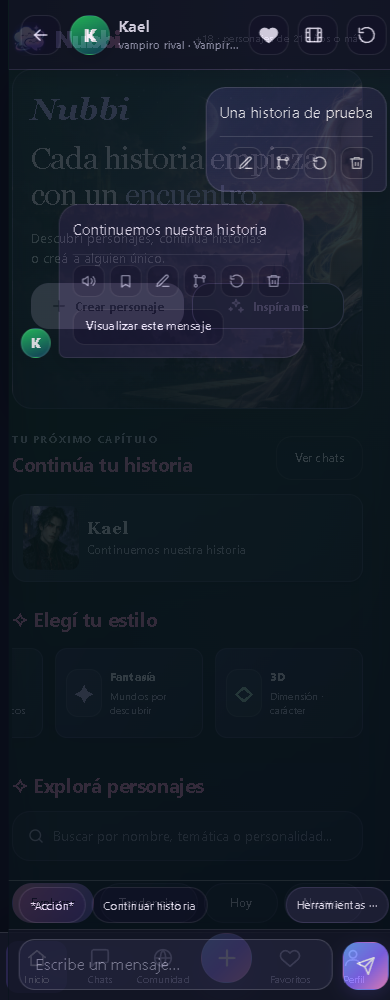
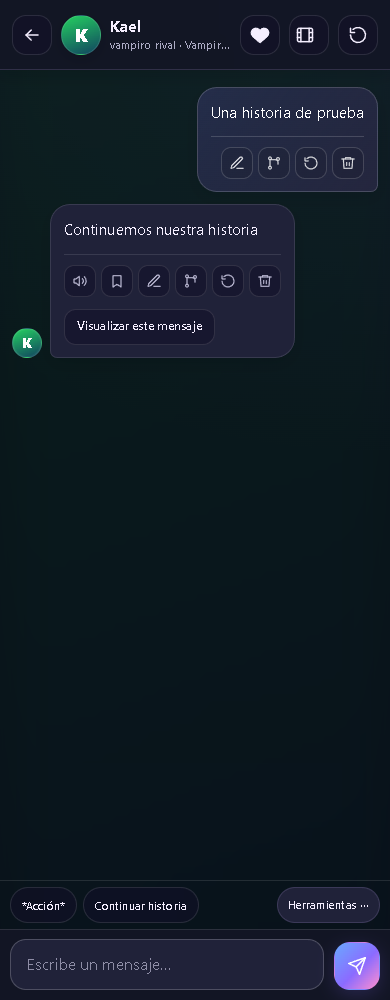
fix(ui): respect system theme and make catalog filters keyboard accessible

diff --git a/public/fantasy.css b/public/fantasy.css
@@ -1,5 +1,6 @@
 /* Visual layer only. All application controls retain their original handlers. */
-:root:not([data-theme="light"]){--bg:#090d19;--bg-elevated:#15172a;--sf:#171a2bd9;--surface:#171a2bcc;--surface-2:#202239;--glass-strong:#121525ed;--bot:#24263e;--bd:#b8a0e52e;--mut:#b8b6d0;--tx:#f5efff}
+:root[data-theme="dark"]{--bg:#090d19;--bg-elevated:#15172a;--sf:#171a2bd9;--surface:#171a2bcc;--surface-2:#202239;--glass-strong:#121525ed;--bot:#24263e;--bd:#b8a0e52e;--mut:#b8b6d0;--tx:#f5efff}
+@media(prefers-color-scheme:dark){:root:not([data-theme]){--bg:#090d19;--bg-elevated:#15172a;--sf:#171a2bd9;--surface:#171a2bcc;--surface-2:#202239;--glass-strong:#121525ed;--bot:#24263e;--bd:#b8a0e52e;--mut:#b8b6d0;--tx:#f5efff}}
 body{background:radial-gradient(ellipse at 72% 0%,#8770c51c,transparent 60%),var(--bg)}
 #views{max-width:1800px}
 h2,.section-heading h2{color:var(--ac2);font-size:20px;font-weight:650;letter-spacing:-.02em}
@@ -108,3 +109,14 @@ nav .brand small{display:none}
 :root[data-theme="light"] :is(input,textarea)::placeholder{color:#756985;opacity:1}
 :root[data-theme="light"] button.g{background:#eee7f7;color:#4c356c}
 :root[data-theme="light"] .hero-actions button.g{background:#111326e6;color:#ead5ff}
+
+/* System follows the same light treatment as the explicit preference. */
+@media(prefers-color-scheme:light){
+:root:not([data-theme]) #v-home .hero{color:#fff}
+:root:not([data-theme]) .card{color:#fff}
+:root:not([data-theme]) :is(h2,.section-heading h2,#v-prof h3,dialog h3,dialog h2){color:#74408d}
+:root:not([data-theme]) :is(.prof,dialog) :is(input,textarea,select){background:#fff;color:#35294b;border-color:#b9add0}
+:root:not([data-theme]) :is(input,textarea)::placeholder{color:#756985;opacity:1}
+:root:not([data-theme]) button.g{background:#eee7f7;color:#4c356c}
+:root:not([data-theme]) .hero-actions button.g{background:#111326e6;color:#ead5ff}
+}

diff --git a/public/app.js b/public/app.js
@@ -96,7 +96,7 @@ var b=document.createElement("b");b.textContent=c.name;var s=document.createElem
 var t=document.createElement("div");t.className="tags";(c.tags||c.gender||"").split(",").slice(0,3).forEach(function(x){if(!x)return;var sp=document.createElement("span");sp.className="tg";sp.textContent=x;t.appendChild(sp);});d.appendChild(t);
 d.onclick=function(){openSheet(c.id);};return d;}
 function toggleFav(id){var i=st.favs.indexOf(id);if(i>=0)st.favs.splice(i,1);else st.favs.push(id);save();renderAll();}
-function pills(el,items,sel,fn){el.innerHTML="";items.forEach(function(x){var p=document.createElement("div");p.className="pill"+(x===sel?" on":"");p.textContent=x;p.onclick=function(){fn(x);};el.appendChild(p);});}
+function pills(el,items,sel,fn){el.innerHTML="";items.forEach(function(x){var p=document.createElement("button");p.type="button";p.className="pill"+(x===sel?" on":"");p.setAttribute("aria-pressed",x===sel?"true":"false");p.textContent=x;p.onclick=function(){fn(x);};el.appendChild(p);});}
 function renderForYou(){
 var el=$("forYou");if(!el)return;el.innerHTML="";
 var tags={};

diff --git a/docs/VISUAL-RENEWAL.md b/docs/VISUAL-RENEWAL.md
@@ -2,7 +2,7 @@
 
 ## Base y alcance
 
-Rama: `codex/nubbi-visual-renewal`, creada desde `codex/nubbi-p1-interface` en `1adbee4306a2dac79e151c289a915b53739b787a` (PR #3 abierto). `main` inspeccionado en `7977506026c1b6956ef858322bd4734c26af5da1`. Esta propuesta se apila sobre #3 para conservar sus tarjetas de Perfil y aviso de recuperación. No fusionar ni desplegar sin aprobación del usuario.
+Rama: `codex/nubbi-visual-renewal`, creada desde `codex/nubbi-p1-interface` en `1adbee4306a2dac79e151c289a915b53739b787a`. Tras fusionarse #3, se integró `main` (`5d1ffee4466c52065f1b70da836650064335e446`) mediante merge sin conflictos y el PR #4 se retargeteó a `main`. El usuario autorizó el 27 de octubre de 2026 las correcciones, coordinación, fusión y autodeploy condicionados a verificaciones satisfactorias. Trabajo realizado en copia/worktree aislados, sin tocar el checkout original de Descargas.
 
 Referencia visual: `Nubbi_ Fantasía, Historias y Conexión.png`, recuperada del adjunto de la conversación original. Patrones públicos consultados en https://emochi.com/: descubrimiento mediante búsqueda, pestañas de exploración/tendencias y tarjetas con etiquetas. No se copiaron personajes, textos de catálogo ni imágenes de Emochi.
 
@@ -16,7 +16,7 @@ Referencia visual: `Nubbi_ Fantasía, Historias y Conexión.png`, recuperada del
 - Doce retratos originales de respaldo para `p0` a `p11`. Solo aparecen si falla el retrato del catálogo y no existe `c.img`; no reemplazan imágenes guardadas. El resto del catálogo conserva su respaldo original con iniciales.
 - Nueva hoja `public/fantasy.css`. Caché de recursos públicos incrementada a `nubbi-v36`, incluyendo CSS y las dos imágenes locales. No cambia la política de exclusión de datos privados.
 
-No se modificaron servidor, reglas Firebase, configuración de proveedores, lógica de sincronización, aislamiento, almacenamiento ni código de bienvenida. `app.js` cambia únicamente el respaldo visual de tarjetas. `experience.js` cambia orden de secciones y retratos recientes.
+No se modificaron servidor, reglas Firebase, configuración de proveedores, lógica de sincronización, aislamiento, almacenamiento ni código de bienvenida. `app.js` cambia el respaldo visual de tarjetas y convierte los filtros en botones accesibles con `aria-pressed`, conservando callbacks. `experience.js` cambia orden de secciones y retratos recientes. La revisión independiente corrigió además el tema Sistema con SO claro, que recibía por error los tokens oscuros.
 
 ## Validación local
 
@@ -30,7 +30,15 @@ Servidor Express real local, sin credenciales de proveedores. Edge headless con 
 - `test-security.js` contra servidor local: cabeceras/CSP, JSON, límites, origen, autenticación de imágenes y aislamiento de `.env` aprobados.
 - Comprobación de sintaxis JS y `git diff --check` aprobados.
 
-Limitaciones: no certifica Firebase real junto con Express/CSP en producción, respuestas de proveedores reales, Safari/iOS ni una sesión offline real de navegador. La prueba de caché es automatizada en VM. El rediseño debe revisarse visualmente antes de aprobar su integración. No se fusionó ni desplegó.
+Limitaciones: las regresiones de cuentas usan Firebase simulado y los proveedores son simulados; no certifican escrituras Firebase ni generaciones reales. No se probaron Safari/iOS. `scripts/smoke-browser.cjs` agrega instalación real del service worker v36 y recarga offline en Edge, además de smoke de producción no destructivo con contextos nuevos de invitado y bloqueo de métodos de escritura. Los GET de salud solo comprueban configuración/token, no respuestas de chat o generación. La evidencia de publicación y deploy se registra en comentarios del PR #4 para evitar alterar el commit ya validado.
+
+## Cierre de revisión (27 de octubre de 2026)
+
+- Revisión independiente del código y capturas reales detectó dos defectos: tema Sistema claro y filtros sin teclado. Ambos corregidos; regresiones de Enter/Espacio y Sistema claro/oscuro añadidas en los cinco anchos.
+- Se repitieron las diez suites JS enumeradas arriba, seguridad/CSP, seis escenarios welcome y 32 grupos accounts sobre la integración con main. Todos aprobados antes del cierre; se repetirán sobre el commit final antes de publicar.
+- Las capturas completan las animaciones finitas antes de guardarse (`animations: disabled` solo en la captura); la aplicación conserva sus animaciones y preferencias. Se inspeccionaron las capturas reales de escritorio, móvil, Perfil y creador.
+- Coordinación verificable: https://github.com/burbellobruno/nubbi/pull/4#issuecomment-6432792781. La revisión independiente ocurrió mediante subagente de esta sesión; no se afirma comunicación directa con ChatGPT.
+- La producción previa al merge respondió 200/ok en `/api/health` (Groq) y `/api/image/health` (Cloudflare). No se enviaron mensajes ni se generaron imágenes, ni se accedió a datos de testers.
 
 ## Arte y especificaciones de generación
 
